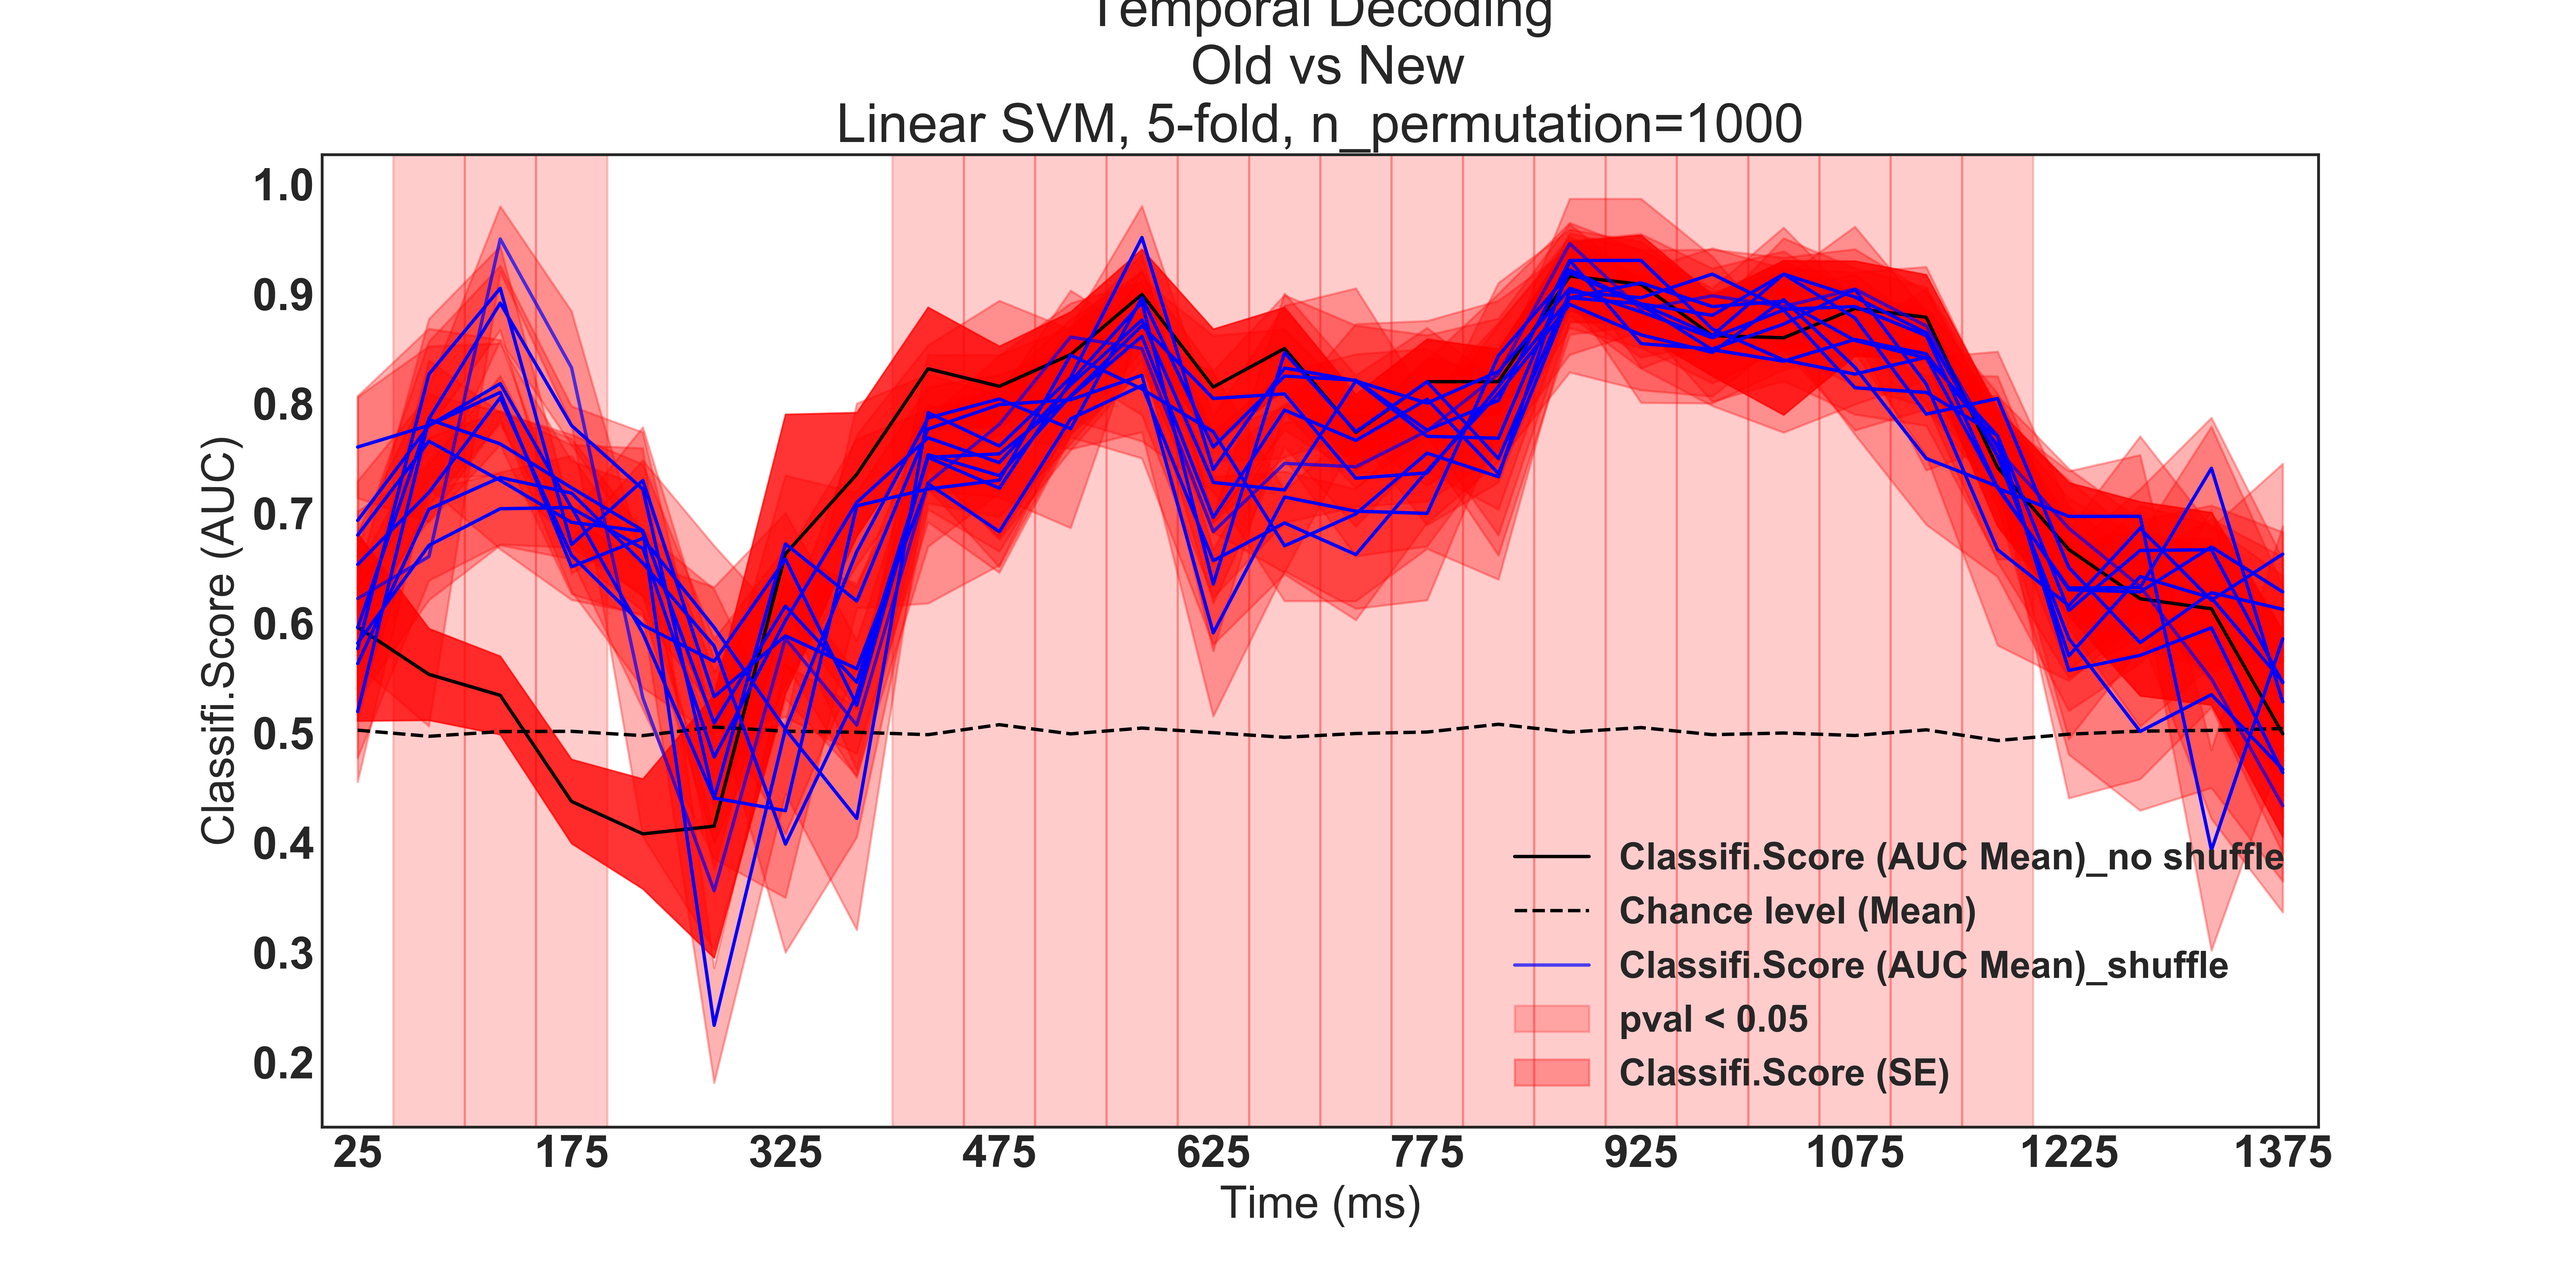
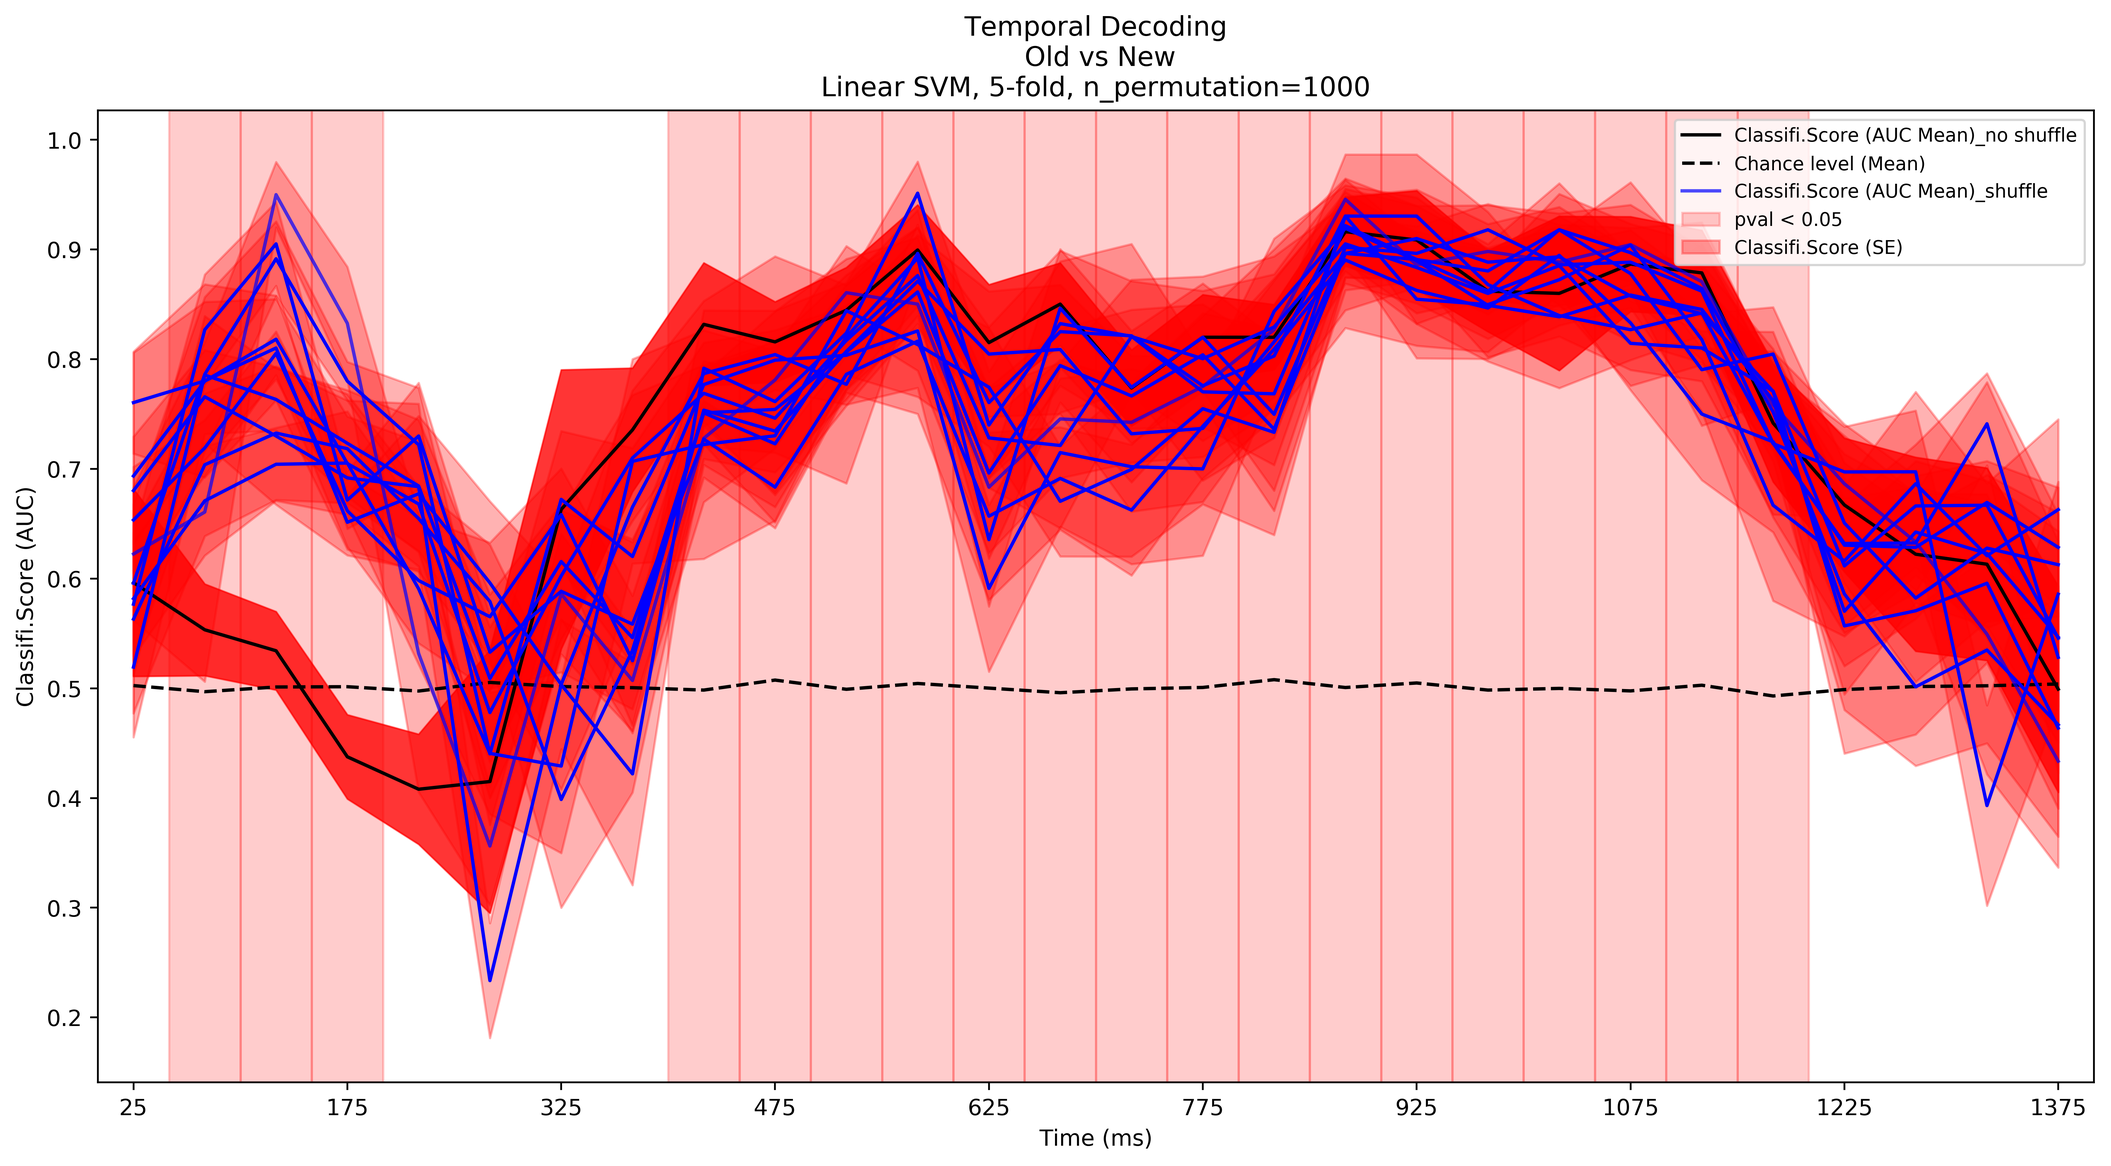
update

diff --git a/scripts/vcrt shuflling (3 classes).py b/scripts/vcrt shuflling (3 classes).py
@@ -281,7 +281,7 @@ for ii,idx in enumerate(pval_idx):
     else:
         ax.axvspan(times[idx]-25,times[idx]+25,color='red',alpha=.2)
 ax.legend(fontsize='small')   
-fig.savefig(working_dir+'old vs new vs scr temporal decoding.png',dpi=500) 
+fig.savefig(working_dir+'old vs new vs scr temporal decoding.png',dpi=500,bbox_inches = 'tight') 
 
 
 

diff --git a/scripts/vcrt shuflling.py b/scripts/vcrt shuflling.py
@@ -296,7 +296,7 @@ for ii,idx in enumerate(pval_idx):
     else:
         ax.axvspan(times[idx]-25,times[idx]+25,color='red',alpha=.2)
 ax.legend(fontsize='small')     
-fig.savefig(working_dir+'old vs new temporal decoding.png',dpi=500)  
+fig.savefig(working_dir+'old vs new temporal decoding.png',dpi=500,bbox_inches = 'tight')  
 
 
     
